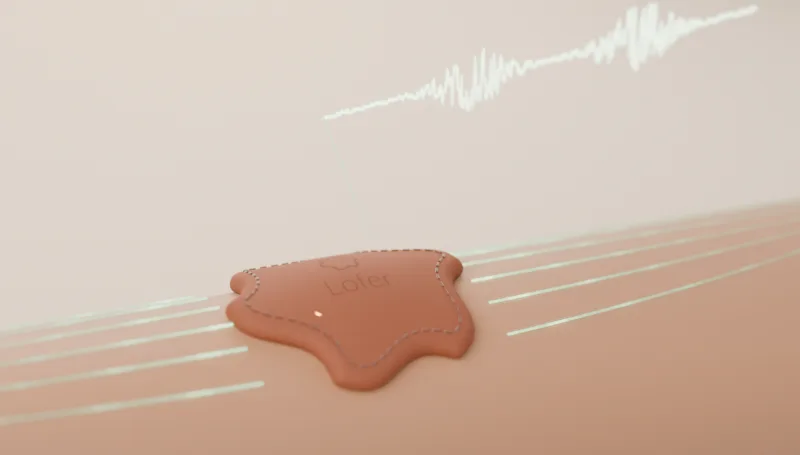
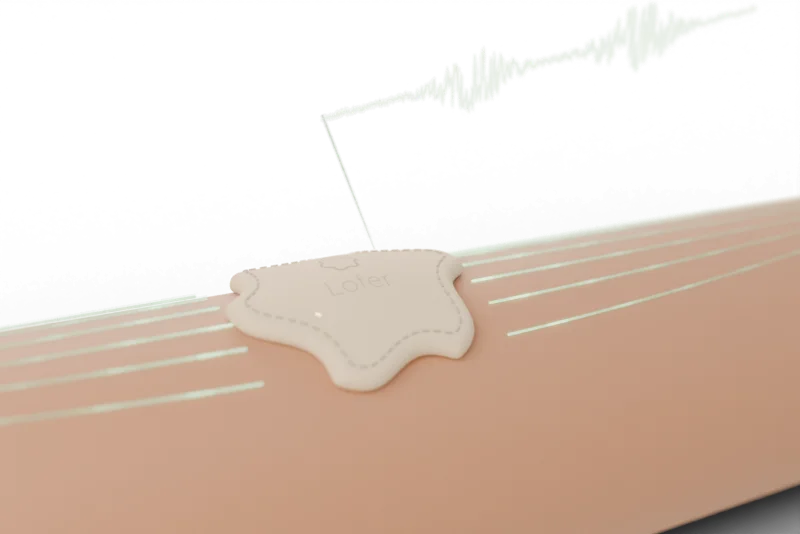
tiles colour change

diff --git a/website/index.html b/website/index.html
@@ -258,16 +258,16 @@
 
         <!-- What each tile can do. Micro-current is planned, so it says so. -->
         <ul class="modes">
-          <li class="mode reveal"><span class="mode__glow mode__glow--heat"></span><img class="mode__img" src="/renders/function-heat.webp" width="800" height="455" loading="lazy" alt="A Lofer tile on an arm, with warm lines rising and a soft glow in the skin around it." /><h3>Heat</h3><p>Gentle warmth to ease daily tension and help muscles relax.</p></li>
-          <li class="mode reveal"><span class="mode__glow mode__glow--vibration"></span><img class="mode__img" src="/renders/function-vibration.webp" width="800" height="455" loading="lazy" alt="A Lofer tile on an arm, with rings of vibration spreading through the skin around it." /><h3>Vibration massage</h3><p>From a soft hum to a deeper pulse, to soothe everyday tightness.</p></li>
-          <li class="mode reveal"><span class="mode__glow mode__glow--ems"></span><img class="mode__img" src="/renders/function-microcurrent.webp" width="800" height="455" loading="lazy" alt="A Lofer tile on an arm, with faint blue lines of micro-current running along the skin." /><h3>Micro-current</h3><p>Micro pulses that help muscles release and unwind.</p></li>
-          <li class="mode reveal"><span class="mode__glow mode__glow--compression"></span><img class="mode__img" src="/renders/function-emg.webp" width="800" height="455" loading="lazy" alt="A Lofer tile on an arm, with a muscle-signal trace above it and pale lines along the skin." /><h3>Muscle signals</h3><p>Designed to read muscle response, so care can meet you where you are.</p></li>
+          <li class="mode reveal"><span class="mode__glow mode__glow--heat"></span><img class="mode__img" src="/renders/function-heat.webp" width="800" height="533" loading="lazy" alt="A Lofer tile on an arm, with warm lines rising and a soft glow in the skin around it." /><h3>Heat</h3><p>Gentle warmth to ease daily tension and help muscles relax.</p></li>
+          <li class="mode reveal"><span class="mode__glow mode__glow--vibration"></span><img class="mode__img" src="/renders/function-vibration.webp" width="800" height="533" loading="lazy" alt="A Lofer tile on an arm, with rings of vibration spreading through the skin around it." /><h3>Vibration massage</h3><p>From a soft hum to a deeper pulse, to soothe everyday tightness.</p></li>
+          <li class="mode reveal"><span class="mode__glow mode__glow--ems"></span><img class="mode__img" src="/renders/function-microcurrent.webp" width="800" height="533" loading="lazy" alt="A Lofer tile on an arm, with faint blue lines of micro-current running along the skin." /><h3>Micro-current</h3><p>Micro pulses that help muscles release and unwind.</p></li>
+          <li class="mode reveal"><span class="mode__glow mode__glow--compression"></span><img class="mode__img" src="/renders/function-emg.webp" width="800" height="533" loading="lazy" alt="A Lofer tile on an arm, with a muscle-signal trace above it and pale lines along the skin." /><h3>Muscle signals</h3><p>Designed to read muscle response, so care can meet you where you are.</p></li>
         </ul>
 
         <!-- The tile up close: four renders. -->
         <ul class="gallery">
           <li class="gallery__card reveal">
-            <img src="/renders/colourways.webp" width="1400" height="933" loading="lazy" alt="Five Lofer tiles in a curved row, in clay, sand, oat, sage and cocoa." />
+            <img src="/renders/colourways.webp" width="1400" height="933" loading="lazy" alt="Five Lofer tiles in a curved row, in different colours." />
             <h3>Soft to the touch</h3>
             <p></p>
           </li>
@@ -277,7 +277,7 @@
             <p></p>
           </li>
           <li class="gallery__card reveal">
-            <img src="/renders/hero-latched.webp" width="1400" height="933" loading="lazy" alt="Three Lofer tiles latched edge to edge, in clay, oat and sage." />
+            <img src="/renders/hero-latched.webp" width="1400" height="933" loading="lazy" alt="Three cream Lofer tiles latched edge to edge." />
             <h3>Latches edge to edge</h3>
             <p></p>
           </li>

diff --git a/website/src/styles.css b/website/src/styles.css
@@ -644,8 +644,8 @@ h1, h2, h3, p { margin: 0; }
   opacity: 0;
   transition: opacity 1.4s ease;
 }
-.tiling.is-on { opacity: 0.34; }
-.tiling[data-side='center'].is-on { opacity: 0.3; }  /* sits behind the sign-up text, so keep it quieter */
+.tiling.is-on { opacity: 0.5; }
+.tiling[data-side='center'].is-on { opacity: 0.3; }
 /* The side: --peek is how much of the cluster's width shows at the edge of the screen. */
 .tiling[data-side='right'] { --tx: calc(100vw - var(--size) * var(--peek, 0.68)); }
 .tiling[data-side='left'] { --tx: calc(var(--size) * (var(--peek, 0.68) - 1)); }
@@ -660,13 +660,15 @@ h1, h2, h3, p { margin: 0; }
 .tiling__svg { display: block; width: 100%; height: auto; overflow: visible; }
 .tiling__tile { opacity: 0; transform: translate(var(--x), var(--y)); }
 .tiling__tile.is-shown { opacity: 1; }
-.tiling__body { stroke: rgba(36, 30, 27, 0.12); stroke-width: 0.7; }
-.tiling__seam { fill: none; stroke: rgba(255, 248, 240, 0.75); stroke-width: 1.3; stroke-dasharray: 2.9 2.1; }
-.tiling__mark { fill: none; stroke: rgba(36, 30, 27, 0.2); stroke-width: 0.9; }   /* centred on the tile */
+.tiling { --tile-line: #8a6a52; }   /* the line colour (brown); the seam and logo are a paler version of it */
+.tiling__body, .tiling__seam, .tiling__mark { fill: none; stroke: var(--tile-line); stroke-linejoin: round; }
+.tiling__body { stroke-width: 0.8; }
+.tiling__seam { stroke-width: 0.7; stroke-dasharray: 2.9 2.1; stroke-opacity: 0.55; }
+.tiling__mark { stroke-width: 0.8; stroke-opacity: 0.5; }
 @media (max-width: 760px) {
   .tiling { --size: 86vw; }
-  .tiling.is-on { opacity: 0.28; }
+  .tiling.is-on { opacity: 0.3; }
 }
 .tile .gallery { margin: 20px 0 0; }
 /* A render in the empty top of each function card (the card keeps its size). */
-.mode__img { position: absolute; top: 0; left: 0; width: 100%; height: 140px; object-fit: cover; object-position: 50% 68%; display: block; }
+.mode__img { position: absolute; top: 0; left: 0; width: 100%; height: 140px; object-fit: cover; object-position: 50% 45%; display: block; }

diff --git a/website/src/tiling.js b/website/src/tiling.js
@@ -17,15 +17,15 @@ const toXY = (angleDeg) => [PITCH * Math.cos((angleDeg * Math.PI) / 180), PITCH 
 // The six neighbour directions (y points down): 90° = below, 270° = above, and so on.
 const [DOWN_RIGHT, DOWN, DOWN_LEFT, UP_LEFT, UP, UP_RIGHT] = [30, 90, 150, 210, 270, 330].map(toXY);
 
-// The seven slots: the centre, then its six neighbours. `colour` is a colourway from the renders.
+// The seven slots: the centre, then its six neighbours. Only outlines are drawn.
 const TILES = [
-  { at: [0, 0], colour: '#d9c8ae' },            // oat
-  { at: DOWN, colour: '#b9735a' },              // clay
-  { at: UP, colour: '#a3a88d' },                // sage
-  { at: DOWN_RIGHT, colour: '#cdb594' },        // sand
-  { at: UP_RIGHT, colour: '#a3a88d' },          // sage
-  { at: UP_LEFT, colour: '#876552' },           // cocoa
-  { at: DOWN_LEFT, colour: '#b9735a' },         // clay
+  { at: [0, 0] },
+  { at: DOWN },
+  { at: UP },
+  { at: DOWN_RIGHT },
+  { at: UP_RIGHT },
+  { at: UP_LEFT },
+  { at: DOWN_LEFT },
 ];
 
 // Each grouping lists the slots that show (by index into TILES).
@@ -50,10 +50,11 @@ const PLAN = {
 
 const planKey = (plan) => `${plan.grouping}|${plan.side}|${plan.tilt}|${plan.peek ?? ''}`;
 
-function tileMarkup({ at, colour }, i) {
+function tileMarkup({ at }, i) {
+  // Thin outline only (no fill), with the two things that identify a tile: the stitched seam and the logo.
   // The logo is the same outline as the tile, just smaller, and both are centred on (0, 0): it sits in the middle.
   return `<g class="tiling__tile" data-tile="${i}" style="--x:${at[0].toFixed(1)}px;--y:${at[1].toFixed(1)}px">
-    <path class="tiling__body" d="${deviceOutlineSvgPath(100)}" fill="${colour}"/>
+    <path class="tiling__body" d="${deviceOutlineSvgPath(100)}"/>
     <path class="tiling__seam" d="${deviceOutlineSvgPath(84)}"/>
     <path class="tiling__mark" d="${deviceOutlineSvgPath(11)}"/>
   </g>`;

diff --git a/website/README.md b/website/README.md
@@ -55,7 +55,7 @@ website/
   3. **Guided checks:** real screens from the iOS app (`public/app/`, captured from the `-LoferDemoFull` demo). Re-capture them when the app's look changes.
   4. **The Lofer Loop:** six stages (`src/loop.js` animates however many nodes the diagram has).
   5. **Personal:** what's remembered (reported, checked, tried, afterwards).
-  6. **Inside Lofer:** the real exploded render with seven layers (silicone cover, battery, circuit board, insulating foam, rigid chassis, heater film, hydrogel liner), then tile details (colourways, skin side, latching, dock) and a spec list. Micro-current stimulation is planned but not in the current hardware, and the section says so.
+  6. **Inside Lofer:** the real exploded render with seven layers (silicone cover, battery, circuit board, insulating foam, rigid chassis, heater film, hydrogel liner), then tile details (the cream lineup, skin side, latching, dock) and a spec list. Micro-current stimulation is planned but not in the current hardware, and the section says so.
 - **Claims rules** (check the app and hardware evidence before changing copy):
   - "AI-powered" is the positioning the founders chose. Today's app uses an on-device keyword parser, with an AI backend planned.
   - Name only hardware that's in the prototype drawings (heat: heater film with thermal cut-off; vibration motor; EMG electrodes in the hydrogel liner). EMG is "designed to read muscle activity", not a validated measurement. Compression and EMS are **not** in the current build, so the site no longer lists them.
